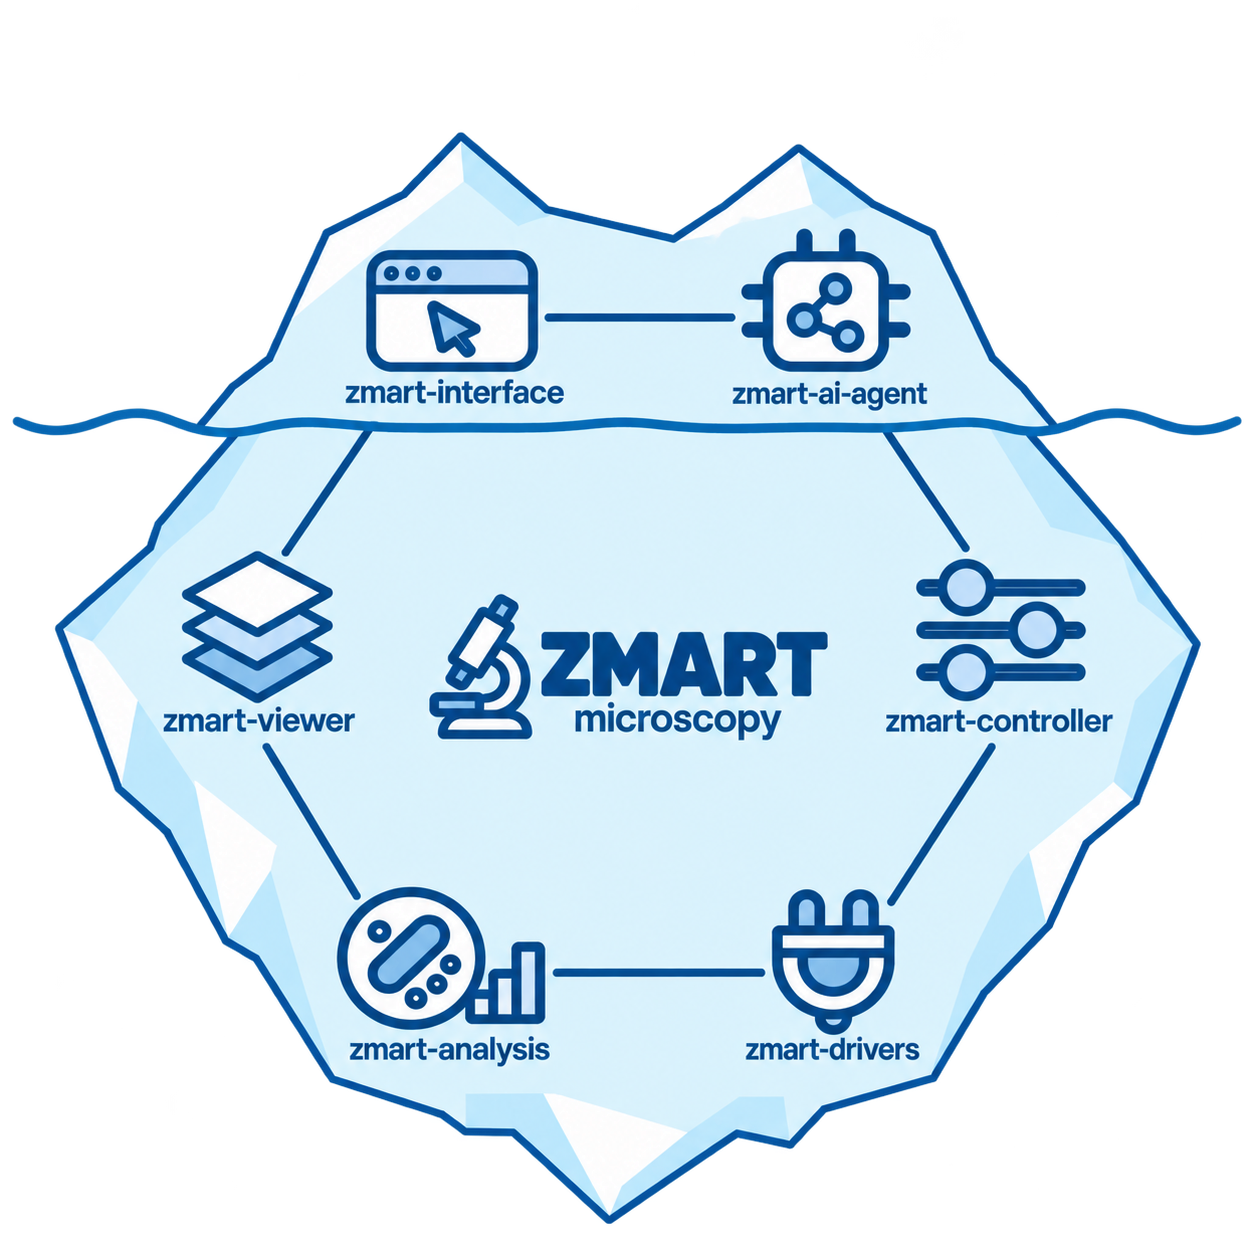
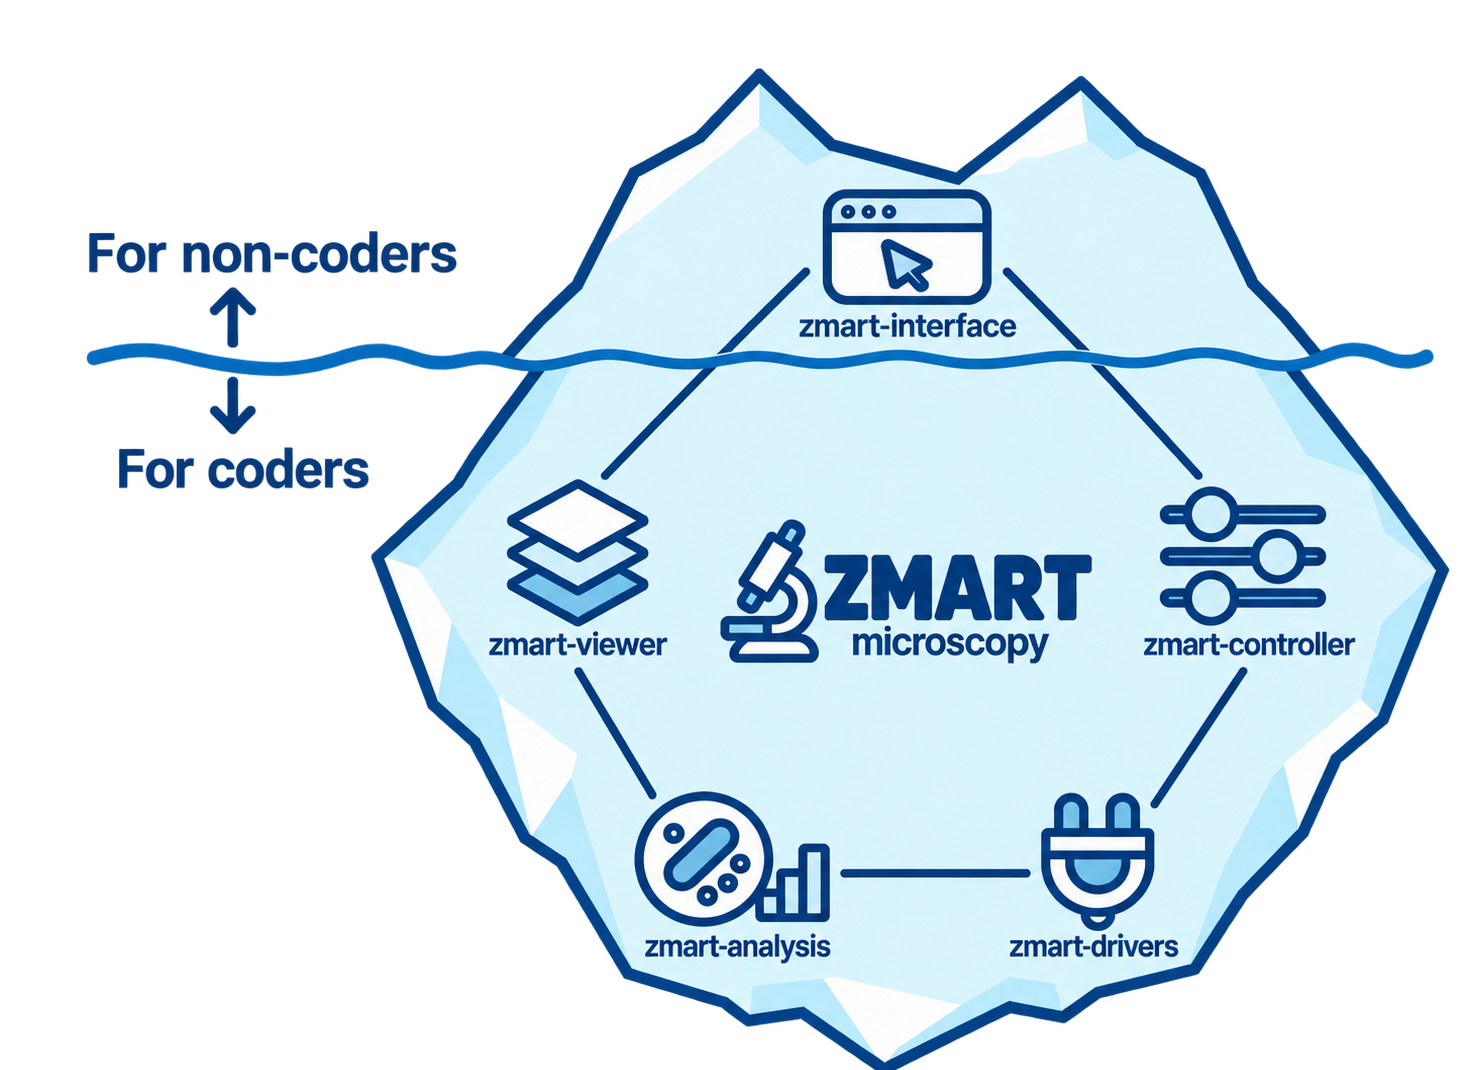
Iceberg: for non-coders above the water, for coders below

diff --git a/README.md b/README.md
@@ -29,7 +29,7 @@ Each tool has its own repository and can be used on its own.
 <table>
 <tr>
 <td width="46%" valign="middle">
-<img src="docs/zmart-iceberg.png" width="100%" alt="The ZMART toolkit: interface and AI agent above the water; viewer, controller, analysis and drivers below">
+<img src="docs/zmart-iceberg.png" width="100%" alt="The ZMART toolkit: the interface above the water, for non-coders; viewer, controller, analysis and drivers below, for coders">
 </td>
 <td valign="middle">
 
